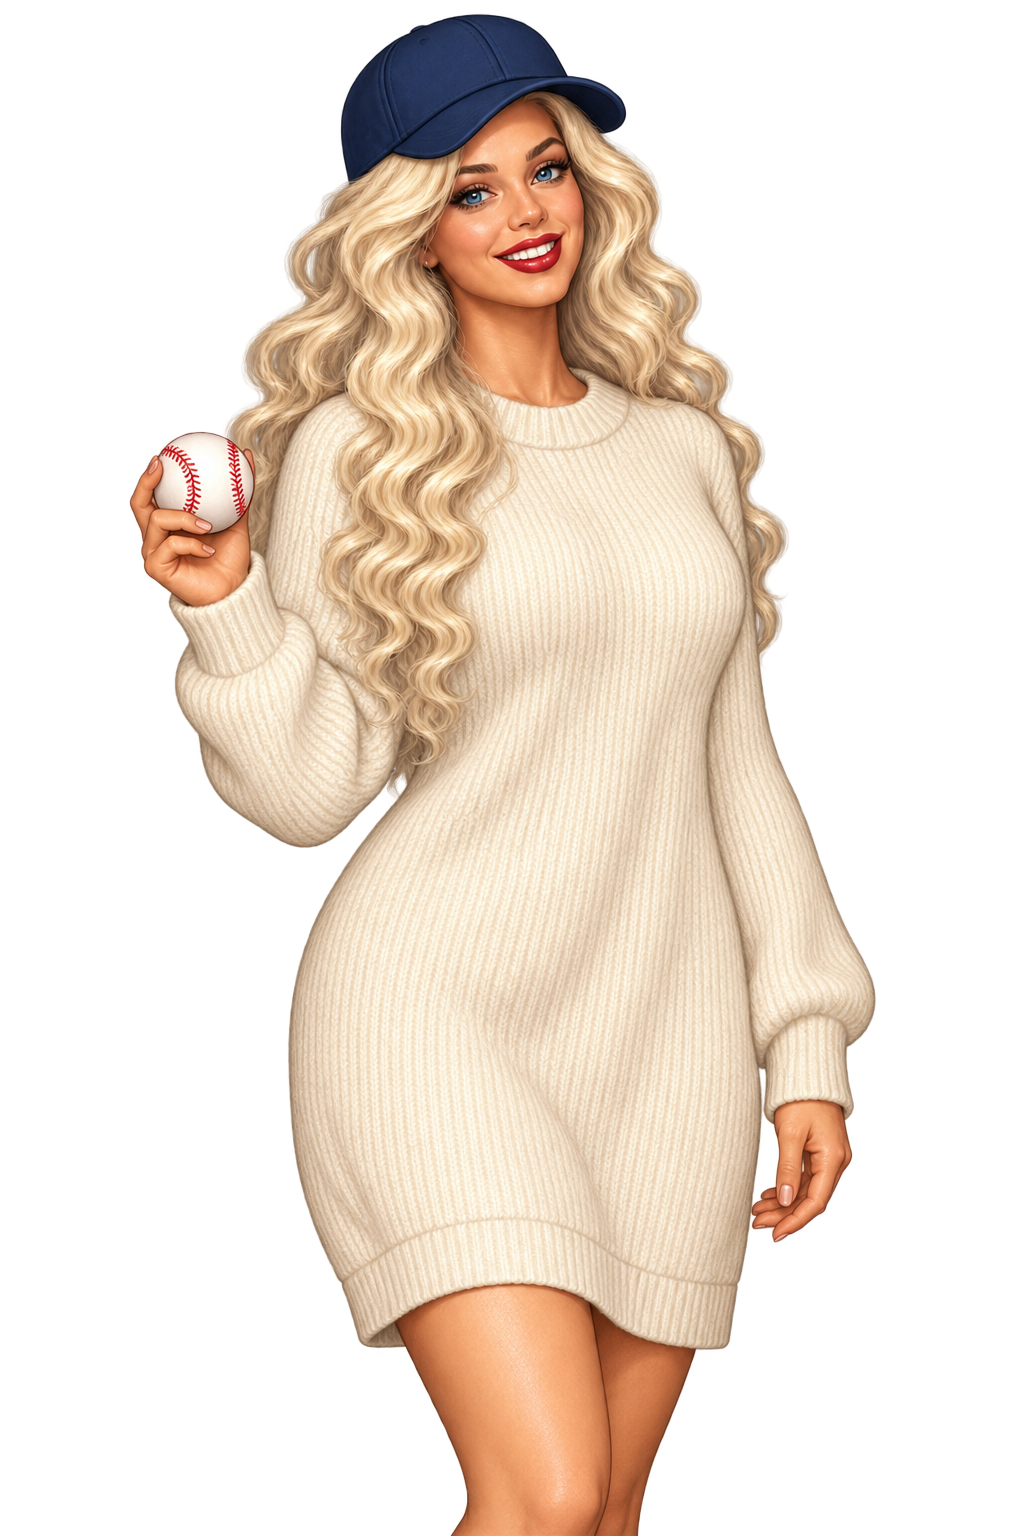
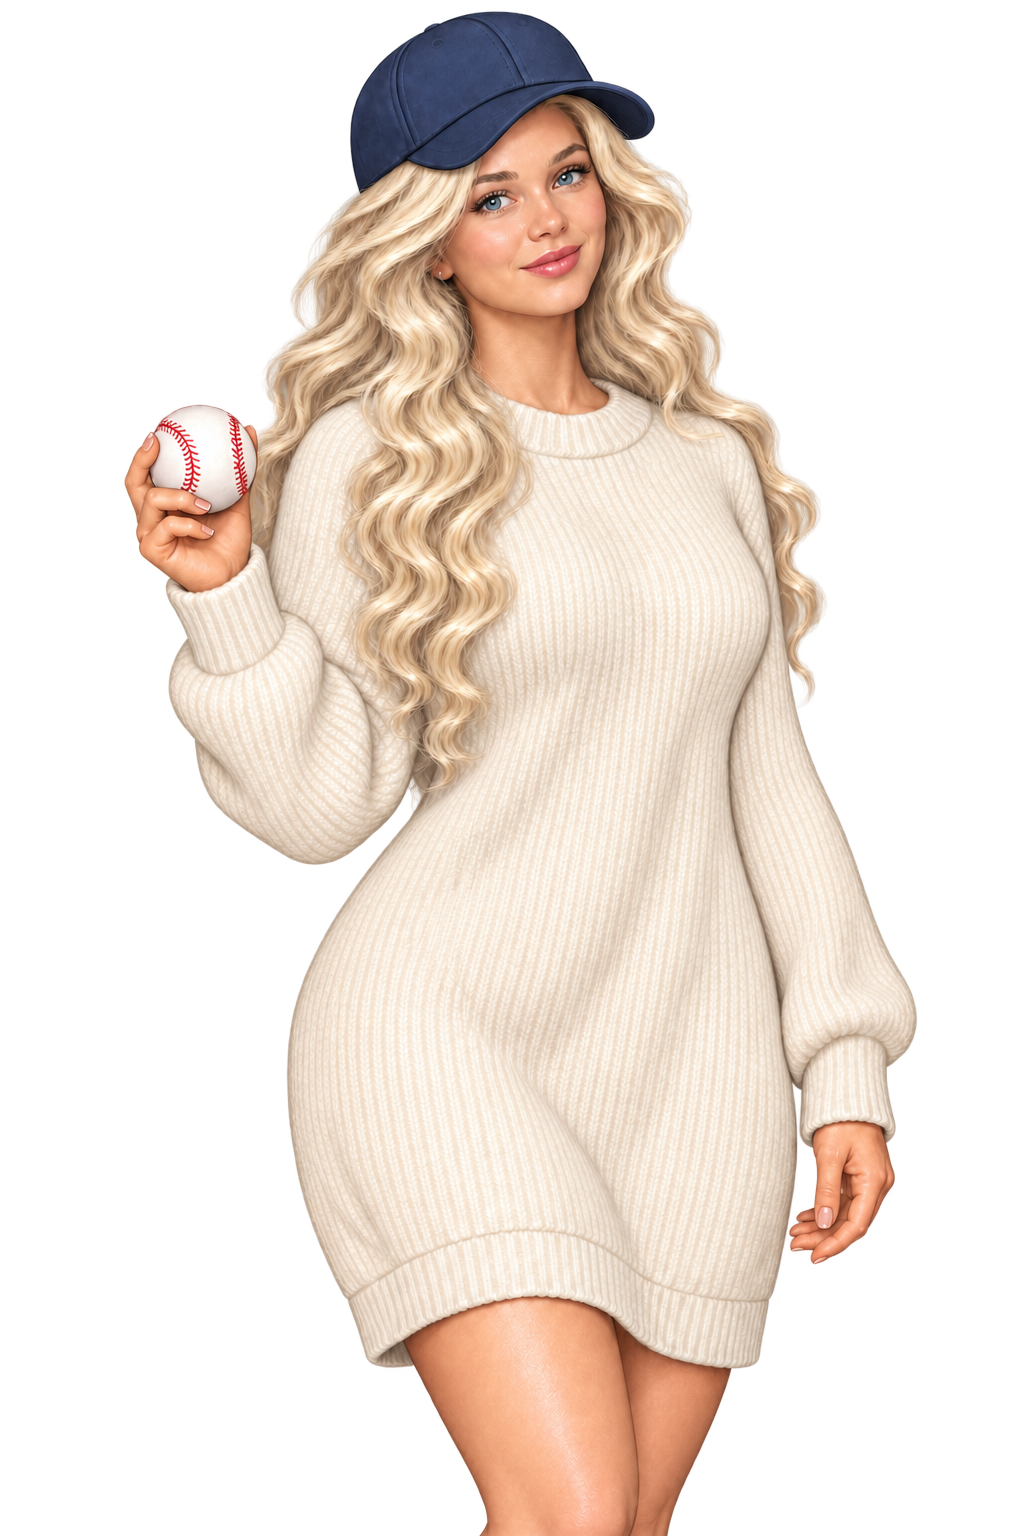
Refine Lily portraits with softer cheeks and relaxed expressions

Changed region(s): [[0.125, 0.0, 0.9062, 1.0]]

diff --git a/assets/semirealistic/index.html b/assets/semirealistic/index.html
@@ -84,6 +84,7 @@ footer a{margin-right:16px}
 const catalog=window.ART_CATALOG;
 const grid=document.getElementById("grid");
 const search=document.getElementById("search");
+search.value=new URLSearchParams(location.search).get("q")||"";
 const original=document.getElementById("original");
 let selected="전체";
 const cards=catalog.map(asset=>{

diff --git a/assets/semirealistic/README.md b/assets/semirealistic/README.md
@@ -21,7 +21,11 @@
 
 ## 제작 기록
 
-내장 이미지 생성 도구(`image_gen`)로 원본 그림을 참고하여 화풍을 변경했습니다. 외부 API나 별도 생성 CLI는 사용하지 않았습니다. 승인된 샘플 2장은 그대로 포함하고 나머지 72장을 같은 방향으로 제작했습니다.
+내장 이미지 생성 도구(`image_gen`)로 원본 그림을 참고하여 화풍을 변경했습니다. 외부 API나 별도 생성 CLI는 사용하지 않았습니다. 처음에는 승인된 샘플 2장을 포함하고 나머지 72장을 같은 방향으로 제작했습니다.
+
+릴리 하퍼 4장은 사용자 피드백에 따라 두 차례 수정했습니다. 성인 설정을 유지하며 부드러운 얼굴선·옅은 분홍빛 화장·가벼운 금발 웨이브로 바꾸고, 보조개와 입가의 깊은 음영을 줄여 입을 다문 미소로 마무리했습니다. [릴리 그림만 보기](index.html?q=%EB%A6%B4%EB%A6%AC). `prompts.json`의 `history`와 `referenceVersions`에 각 수정의 프롬프트와 참고 그림 버전(Git 커밋 또는 생성 파일 식별자)을 기록했습니다.
+
+마지막 얼굴 수정 중 생성 도구가 만남·연인 장면의 노출을 제한했습니다. 만남은 가슴을 덮는 보트넥과 짧은 소매, 트임 없는 빨간 드레스로, 연인은 가슴과 배를 덮도록 여민 흰 셔츠와 흰 반바지로 조정했습니다.
 
 `prompts.json`에는 성공한 결과에 실제 사용한 최종 프롬프트, 참고 이미지, 원본과 결과의 대응 관계를 적었습니다. 참고 경로는 이 폴더 기준 상대 경로입니다. `progress.json`은 완료 목록, `validation.json`은 크기·용량·SHA-256·64픽셀 간격의 알파 표본 검사 결과입니다. 알파 표본의 최댓값은 전체 픽셀의 정확한 최댓값을 뜻하지 않습니다.
 

diff --git a/개발노트.md b/개발노트.md
@@ -62,6 +62,8 @@
 
 ## 4. 그림
 
+- **릴리 반실사 얼굴 수정**: `assets/semirealistic/images/heroine6_*.png` 4장을 성인 설정은 유지한 채 풋풋한 얼굴과 옅은 화장으로 교체하고, 추가 피드백에 따라 보조개·입가 음영을 줄여 입을 다문 미소로 수정했습니다. 생성 도구 제한으로 만남은 보트넥 빨간 드레스, 연인은 여민 흰 셔츠 차림이 되었습니다. 갤러리의 `?q=릴리` 링크로 네 장만 볼 수 있습니다. 게임 본편의 픽셀 버전에는 적용하지 않았습니다.
+
 - **반실사 새 그림 74장 (2026-10-06)**: `assets/semirealistic/images/`에 인물 65장(1024×1536 투명 PNG)과 배경 9장(1536×1024 PNG)을 저장했습니다. 사용자 승인 샘플 기준으로 내장 이미지 생성 도구로 제작했으며 기존 `images/`는 보존, 게임 연결은 아직 하지 않았습니다. 같은 폴더의 `index.html`에서 원본과 비교·다운로드할 수 있고, `prompts.json`에 최종 프롬프트·대응표, `README.md`에 원본 배경 출처와 릴리 의상 조정 기록이 있습니다. 게임 적용 시 JPG 배경 6장의 확장자와 휴대폰용 용량 최적화를 함께 처리합니다.
 
 - **인물 65장** (주인공 10 + 외모별 평범 `_plain`·추남 `_ugly` 20, 히로인 24, 조연 11): xAI 이미지 API로 만든 2D 픽셀 그림.
